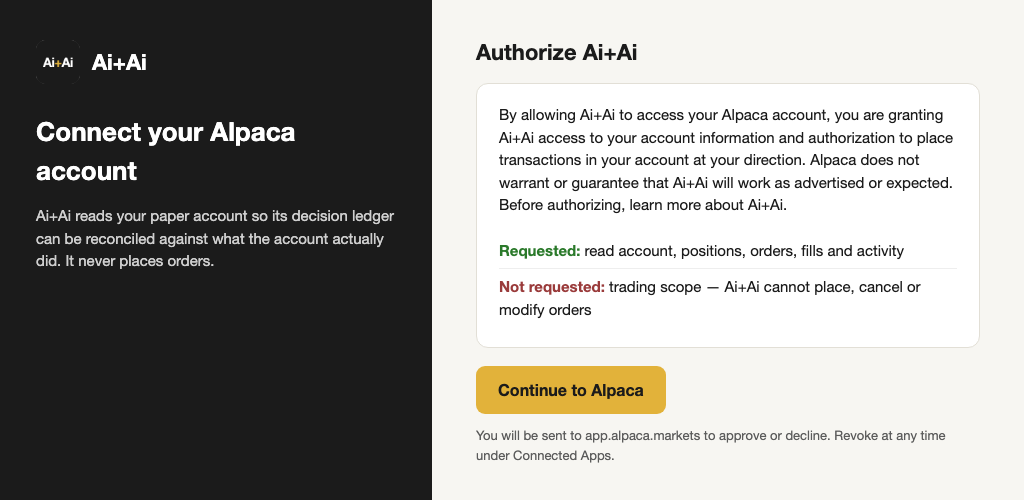
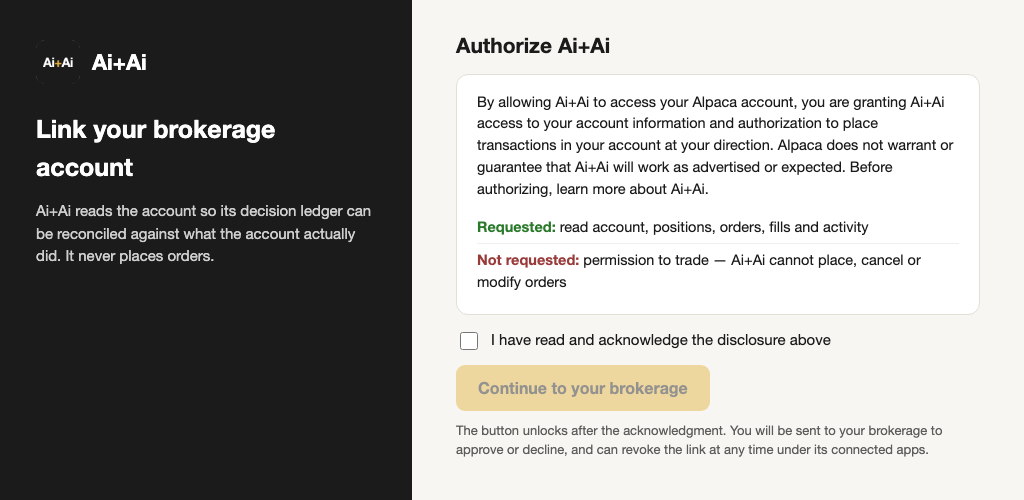
Neutral brokerage wording; acknowledgment on the connect page

Changed region(s): [[0.0312, 0.0, 0.9375, 1.0], [0.0312, 0.24, 0.3125, 0.36]]

diff --git a/terms.html b/terms.html
@@ -1,19 +1,19 @@
 <!doctype html><html lang="en"><head><meta charset="utf-8"><meta name="viewport" content="width=device-width,initial-scale=1"><title>Ai+Ai — Terms of use</title><link rel="stylesheet" href="style.css"></head><body><main>
 <div class="brand"><img src="logo.png" alt=""><span>Ai+Ai</span></div>
-<h1>Terms of use</h1><p class="muted">Effective 2026-10-24</p>
-<p>These terms govern use of the Ai+Ai application ("the application") and its connection to Alpaca accounts.</p>
-<h2>1. What the application is</h2>
-<p>Ai+Ai is a personal decision-ledger tool. It records decisions made by a committee of AI models, scores them against later outcomes, and reconciles its own records against a connected Alpaca account. It is operated by and for its owner. It is not offered to the public as a service.</p>
+<h1>Terms of use</h1><p class="muted">Effective 2026-10-25</p>
+<p>These terms govern use of the Ai+Ai application ("the app") and any brokerage account linked to it.</p>
+<h2>1. What the app is</h2>
+<p>Ai+Ai is a personal decision-ledger tool. It records decisions made by a committee of AI models, scores them against later outcomes, and reconciles its own records against a linked brokerage account. It is operated by and for its owner. It is not offered to the public as a service, has no customers and charges no fees.</p>
 <h2>2. Read-only access</h2>
-<p>When you authorise the application through Alpaca Connect, it requests read access only. It does not request the trading scope and has no ability to place, cancel or modify orders, move funds, or change account settings. All orders are entered by the account owner in Alpaca's own application.</p>
+<p>When you link your brokerage account, the app requests read access only. It does not request permission to trade and has no ability to place, cancel or modify orders, move funds, or change account settings. All orders are entered by the account owner in the brokerage's own application. The app is not a broker-dealer, does not open or maintain accounts, and does not provide brokerage services.</p>
 <h2>3. No investment advice</h2>
-<p>Output produced by the application, including decisions written by AI models, is a record of a process, not a recommendation. Nothing the application produces is investment, legal or tax advice. You are solely responsible for every order you place.</p>
+<p>Output produced by the app, including decisions written by AI models, is a record of a process, not a recommendation. Nothing the app produces is investment, legal or tax advice. You are solely responsible for every order you place.</p>
 <h2>4. No warranty</h2>
-<p>The application is provided as is, without warranty of any kind. AI models make mistakes; market data may be delayed or wrong; reconciliation may fail. The owner uses the application at their own risk, and the application's authors accept no liability for losses of any kind.</p>
-<h2>5. Relationship to Alpaca</h2>
-<p>The application is not affiliated with, endorsed by, or operated by Alpaca Securities LLC or AlpacaDB, Inc. Your relationship with Alpaca is governed by Alpaca's own agreements. Alpaca does not warrant or guarantee that the application will work as advertised or expected.</p>
+<p>The app is provided as is, without warranty of any kind. AI models make mistakes; market data may be delayed or wrong; reconciliation may fail. The owner uses the app at their own risk, and the app's author accepts no liability for losses of any kind.</p>
+<h2>5. Relationship to your brokerage</h2>
+<p>The app is not affiliated with, endorsed by, or operated by any brokerage. Your relationship with your brokerage is governed by that brokerage's own agreements. No brokerage warrants or guarantees that the app will work as advertised or expected.</p>
 <h2>6. Revoking access</h2>
-<p>You may revoke the application's access at any time from the Connected Apps page of your Alpaca dashboard. Revocation takes effect immediately; the application keeps only what it has already stored locally.</p>
+<p>You may revoke the app's access at any time from the connected-apps page of your brokerage's dashboard. Revocation takes effect immediately; the app keeps only what it has already stored locally.</p>
 <h2>7. Changes</h2>
 <p>These terms may be revised. The effective date above changes when they are.</p>
 <nav><a href="index.html">Home</a><a href="privacy.html">Privacy policy</a></nav>

diff --git a/connect.html b/connect.html
@@ -1,19 +1,21 @@
-<!doctype html><html lang="en"><head><meta charset="utf-8"><title>Ai+Ai — Connect to Alpaca</title><style>
+<!doctype html><html lang="en"><head><meta charset="utf-8"><title>Ai+Ai — Link your brokerage account</title><style>
 html,body{margin:0;width:1024px;height:500px;background:#f7f6f2;font:16px/1.5 -apple-system,"Helvetica Neue",Helvetica,Arial,sans-serif;color:#1b1b1b}
-.wrap{display:flex;height:500px}.left{width:360px;padding:40px 36px;background:#1b1b1b;color:#fff}
+.wrap{display:flex;height:500px}.left{width:340px;padding:40px 36px;background:#1b1b1b;color:#fff}
 .left .mark{display:flex;align-items:center;gap:12px;font-weight:700;font-size:22px}.left img{width:44px;height:44px;border-radius:10px}
-.left h1{font-size:26px;margin:28px 0 10px}.left p{color:#cfcfcf;font-size:15px}
-.right{flex:1;padding:36px 44px}.right h2{margin:0 0 14px;font-size:22px}
-.box{background:#fff;border:1px solid #e2dfd6;border-radius:12px;padding:20px 22px;font-size:15px}
-.scope{margin:16px 0 0;padding:0;list-style:none}.scope li{padding:6px 0;border-top:1px solid #eee}.scope li:first-child{border-top:0}
+.left h1{font-size:25px;margin:26px 0 10px}.left p{color:#cfcfcf;font-size:15px}
+.right{flex:1;padding:30px 44px}.right h2{margin:0 0 12px;font-size:21px}
+.box{background:#fff;border:1px solid #e2dfd6;border-radius:12px;padding:16px 20px;font-size:14.5px}
+.scope{margin:12px 0 0;padding:0;list-style:none}.scope li{padding:5px 0;border-top:1px solid #eee}.scope li:first-child{border-top:0}
 .ok{color:#2b7a2b;font-weight:600}.no{color:#9a3b3b;font-weight:600}
-.btn{display:inline-block;margin-top:18px;background:#e2b23a;color:#1b1b1b;font-weight:700;padding:12px 22px;border-radius:9px}
-.small{font-size:13px;color:#5c5c5c;margin-top:12px}
+.ack{display:flex;align-items:center;gap:10px;margin-top:14px;font-size:15px}.ack input{width:18px;height:18px}
+.btn{display:inline-block;margin-top:12px;background:#e2b23a;color:#1b1b1b;font-weight:700;padding:11px 22px;border-radius:9px;opacity:.45}
+.small{font-size:13px;color:#5c5c5c;margin-top:10px}
 </style></head><body><div class="wrap">
-<div class="left"><div class="mark"><img src="logo.png" alt="">Ai+Ai</div><h1>Connect your Alpaca account</h1><p>Ai+Ai reads your paper account so its decision ledger can be reconciled against what the account actually did. It never places orders.</p></div>
+<div class="left"><div class="mark"><img src="logo.png" alt="">Ai+Ai</div><h1>Link your brokerage account</h1><p>Ai+Ai reads the account so its decision ledger can be reconciled against what the account actually did. It never places orders.</p></div>
 <div class="right"><h2>Authorize Ai+Ai</h2>
 <div class="box">By allowing Ai+Ai to access your Alpaca account, you are granting Ai+Ai access to your account information and authorization to place transactions in your account at your direction. Alpaca does not warrant or guarantee that Ai+Ai will work as advertised or expected. Before authorizing, learn more about Ai+Ai.
-<ul class="scope"><li><span class="ok">Requested:</span> read account, positions, orders, fills and activity</li><li><span class="no">Not requested:</span> trading scope — Ai+Ai cannot place, cancel or modify orders</li></ul></div>
-<span class="btn">Continue to Alpaca</span>
-<div class="small">You will be sent to app.alpaca.markets to approve or decline. Revoke at any time under Connected Apps.</div></div>
+<ul class="scope"><li><span class="ok">Requested:</span> read account, positions, orders, fills and activity</li><li><span class="no">Not requested:</span> permission to trade — Ai+Ai cannot place, cancel or modify orders</li></ul></div>
+<label class="ack"><input type="checkbox"> I have read and acknowledge the disclosure above</label>
+<span class="btn">Continue to your brokerage</span>
+<div class="small">The button unlocks after the acknowledgment. You will be sent to your brokerage to approve or decline, and can revoke the link at any time under its connected apps.</div></div>
 </div></body></html>

diff --git a/privacy.html b/privacy.html
@@ -1,17 +1,17 @@
 <!doctype html><html lang="en"><head><meta charset="utf-8"><meta name="viewport" content="width=device-width,initial-scale=1"><title>Ai+Ai — Privacy policy</title><link rel="stylesheet" href="style.css"></head><body><main>
 <div class="brand"><img src="logo.png" alt=""><span>Ai+Ai</span></div>
-<h1>Privacy policy</h1><p class="muted">Effective 2026-10-24</p>
-<h2>What is read from Alpaca</h2>
-<p>With read-only authorisation, the application reads the following from the connected Alpaca account: account id and status, cash, equity and buying power, positions, orders and fills, and account activity. It does not read or store your Alpaca password, identity documents, bank details or tax identifiers, and it has no access to them.</p>
+<h1>Privacy policy</h1><p class="muted">Effective 2026-10-25</p>
+<h2>What is read from a linked brokerage account</h2>
+<p>With read-only authorisation, the app reads the following from the linked account: account id and status, cash, equity and buying power, positions, orders and fills, and account activity. It does not read or store your brokerage password, identity documents, bank details or tax identifiers, and it has no access to them.</p>
 <h2>Where it is stored</h2>
-<p>All data read from Alpaca is written to plain files on the owner's own computer. The OAuth access token is stored in a local configuration file on that computer. Nothing is sent to any server operated by the application's authors; there is no such server.</p>
+<p>All data read from the account is written to plain files on the owner's own computer, which is encrypted with full-disk encryption. The access token is stored in a local configuration file on that computer, readable by the owner only. Nothing is sent to any server operated by the app's author; there is no such server.</p>
 <h2>What is shared</h2>
-<p>Nothing from the Alpaca account is sent to any third party. The AI models the committee uses receive the questions put to them and public market information; they do not receive account identifiers, balances or positions.</p>
+<p>Nothing from the account is sent to any third party. The AI models the committee uses receive the questions put to them and public market information; they do not receive account identifiers, balances or positions.</p>
 <h2>Analytics and tracking</h2>
-<p>None. This site and the application set no cookies and run no analytics.</p>
+<p>None. This site and the app set no cookies and run no analytics.</p>
 <h2>Retention and deletion</h2>
-<p>Local files are kept until the owner deletes them. Revoking the application from the Connected Apps page of the Alpaca dashboard ends its access immediately; deleting the local configuration file removes the stored token.</p>
+<p>Local files are kept until the owner deletes them. Revoking the app from the connected-apps page of the brokerage dashboard ends its access immediately; deleting the local configuration file removes the stored token.</p>
 <h2>Contact</h2>
-<p>Questions about this policy go to the application's owner at the contact address given on the Alpaca Connect listing.</p>
+<p>Questions about this policy go to the app's owner at the contact address given on the brokerage's app listing.</p>
 <nav><a href="index.html">Home</a><a href="terms.html">Terms of use</a></nav>
 </main></body></html>

diff --git a/index.html b/index.html
@@ -1,11 +1,13 @@
 <!doctype html><html lang="en"><head><meta charset="utf-8"><meta name="viewport" content="width=device-width,initial-scale=1"><title>Ai+Ai</title><link rel="stylesheet" href="style.css"></head><body><main>
 <div class="brand"><img src="logo.png" alt=""><span>Ai+Ai</span></div>
 <h1>A decision ledger for a committee of AI models</h1>
-<p>Ai+Ai is a personal, single-user application. A committee of AI models (two deciding members and several advisors) records investment decisions before the fact, with a stated check and resolution date. The application then scores each decision against what actually happened, so that the committee's track record is measured rather than remembered.</p>
-<h2>What the Alpaca connection does</h2>
-<p>Ai+Ai connects to an Alpaca account <strong>read-only</strong>. It reads cash, equity, positions, orders, fills and account activity so that the ledger can be reconciled against the real account. It does not request Alpaca's trading scope and cannot place, cancel or modify orders. The account owner enters every order by hand in Alpaca's own application.</p>
+<p>Ai+Ai is a personal, single-user tool. A committee of AI models (two deciding members and several advisors) records investment decisions before the fact, each with a stated check and resolution date. The tool then scores every decision against what actually happened, so that the committee's track record is measured rather than remembered.</p>
+<h2>Linking a brokerage account</h2>
+<p>You can link your brokerage account <strong>read-only</strong>. The tool reads cash, equity, positions, orders, fills and account activity so that its ledger can be reconciled against the real account. It never asks for permission to trade and cannot place, cancel or modify orders. The account owner enters every order by hand in the brokerage's own application. Ai+Ai is not a broker-dealer and does not open or maintain accounts; it is an app that helps keep an honest record.</p>
 <h2>Where the data lives</h2>
-<p>Everything the application reads is stored on the owner's own computer, in plain files. There is no server, no analytics and no third-party sharing. See the <a href="privacy.html">privacy policy</a> and <a href="terms.html">terms of use</a>.</p>
+<p>Everything the tool reads is stored on the owner's own computer, in plain files. There is no server, no analytics and no third-party sharing. See the <a href="privacy.html">privacy policy</a> and <a href="terms.html">terms of use</a>.</p>
+<h2>Brokerage integrations</h2>
+<p>Alpaca (paper and live accounts, read-only).</p>
 <nav><a href="terms.html">Terms of use</a><a href="privacy.html">Privacy policy</a></nav>
-<footer>Ai+Ai is not affiliated with Alpaca Securities LLC. Nothing on this site is investment advice.</footer>
+<footer>Nothing on this site is investment advice or a recommendation to buy or sell any security.</footer>
 </main></body></html>

diff --git a/callback.html b/callback.html
@@ -1,6 +1,6 @@
-<!doctype html><html lang="en"><head><meta charset="utf-8"><meta name="viewport" content="width=device-width,initial-scale=1"><title>Ai+Ai — Alpaca callback</title><link rel="stylesheet" href="style.css"></head><body><main>
+<!doctype html><html lang="en"><head><meta charset="utf-8"><meta name="viewport" content="width=device-width,initial-scale=1"><title>Ai+Ai — Link callback</title><link rel="stylesheet" href="style.css"></head><body><main>
 <div class="brand"><img src="logo.png" alt=""><span>Ai+Ai</span></div>
-<h1>Alpaca authorisation received</h1>
+<h1>Authorisation received</h1>
 <p>Fallback callback page, used only if a loopback redirect is not accepted. Copy the code below into the Ai+Ai app on your Mac. It is valid for a few minutes and can be used once.</p>
 <div class="card"><code id="code">No code in this address.</code></div>
 <p class="muted">This page stores nothing and sends nothing; it only shows what is in its own address bar.</p>

diff --git a/logo.html b/logo.html
@@ -1,0 +1,3 @@
+<!doctype html><html><head><meta charset="utf-8"><style>html,body{margin:0;width:256px;height:256px;background:#fff}
+.b{width:256px;height:256px;border-radius:52px;background:#1b1b1b;display:flex;align-items:center;justify-content:center;font:700 74px/1 -apple-system,"Helvetica Neue",Helvetica,Arial,sans-serif;color:#fff;letter-spacing:-2px}
+.b span{color:#e2b23a}</style></head><body><div class="b">Ai<span>+</span>Ai</div></body></html>
